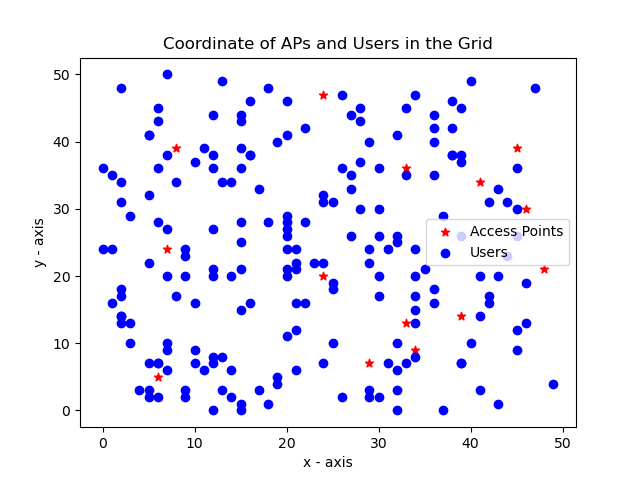
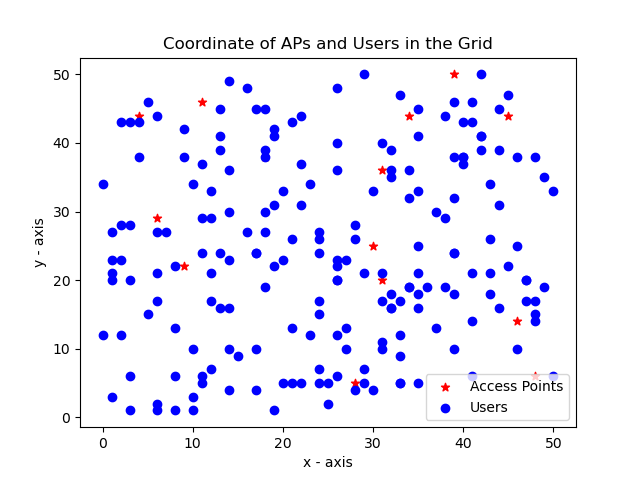
Test numpy and list

diff --git a/network-simulator/simulator.py b/network-simulator/simulator.py
@@ -162,14 +162,14 @@ if __name__ == '__main__':
     usr_loc_ppp = list(zip(*usrloc_ppp))
 
     # plt.rcParams["font.family"] = "Iosevka SS16"
-    plot1 = plt.figure(1)
-    plt.scatter(ap_loc[0], ap_loc[1], label='Access Points', color='red', marker='*')
-    plt.scatter(usr_loc[0], usr_loc[1], label='Users', color='blue', marker='o')
-    plt.xlabel('x - axis')
-    plt.ylabel('y - axis')
-    plt.title('Coordinate of APs and Users in the Grid')
-    plt.legend()
-    plt.savefig('scatterAPUser.png')
+    # plot1 = plt.figure(1)
+    # plt.scatter(ap_loc[0], ap_loc[1], label='Access Points', color='red', marker='*')
+    # plt.scatter(usr_loc[0], usr_loc[1], label='Users', color='blue', marker='o')
+    # plt.xlabel('x - axis')
+    # plt.ylabel('y - axis')
+    # plt.title('Coordinate of APs and Users in the Grid')
+    # plt.legend()
+    # plt.savefig('scatterAPUser.png')
     
     # PPP
     # plot2 = plt.figure(2)
